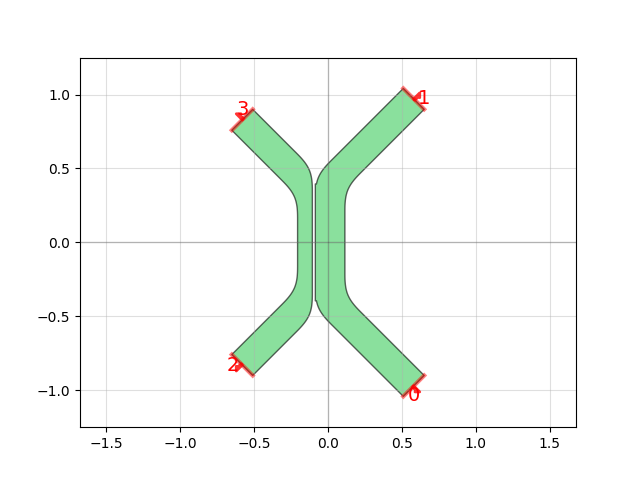
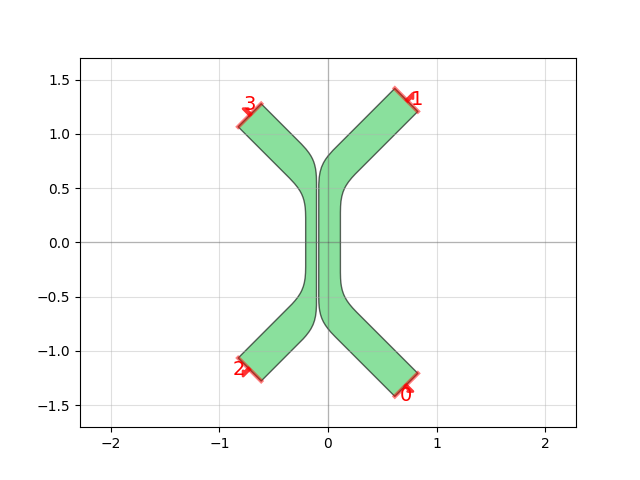
fix solid htron geometry

diff --git a/src/qnngds/devices/htron.py b/src/qnngds/devices/htron.py
@@ -19,7 +19,7 @@ import phidl.geometry as pg
 from qnngds.geometries import angled_taper
 from typing import Tuple, List, Union, Optional
 
-def planar_hTron(wire_width: Union[int, float]= 0.2,
+def planar_hTron(wire_width: Union[int, float]= 0.3,
                  gate_width: Union[int, float] = 0.1,
                  channel_width: Union[int, float] = 0.2,
                  gap: Union[int, float] = 0.02,
@@ -59,7 +59,7 @@ def planar_hTron(wire_width: Union[int, float]= 0.2,
     for direction,width,length in ((1,channel_width, channel_length), (-1,gate_width, gate_length)):
         W = Device('wire')
         constr = W << pg.straight(size=(width, np.max(length - 4*width,0)), layer=layer)
-        constr.move(-constr.center)
+        constr.center = [0,0]
         constr.move([direction*(gap/2+width/2),0])
         taper = angled_taper(wire_width, width, 45, layer=layer)
         if direction < 0:
@@ -79,4 +79,5 @@ def planar_hTron(wire_width: Union[int, float]= 0.2,
 
     HTRON.center = [0,0]
     HTRON.name = f"HTRON.planar(w={wire_width:.2f})"
+    HTRON.simplify(1e-3)
     return HTRON

diff --git a/src/qnngds/design.py b/src/qnngds/design.py
@@ -673,6 +673,29 @@ class Design:
             device_layer=self.layers["device"],
             text=text,
         )
+    
+    def htron_cell(
+            self,
+            wire_width: Union[int, float] = 0.2,
+            gate_width: Union[int, float] = 0.05,
+            channel_width: Union[int, float] = 0.05,
+            gap: Union[int, float] = 0.02,
+            gate_length: Union[int, float] = 0.01,
+            channel_length: Union[int, float] = 0.01,
+            text: Union[None, str] = None
+    ):
+        return cell.planar_htron(
+            die_parameters=self.die_parameters,
+            wire_width=wire_width,
+            gate_width=gate_width,
+            channel_width=channel_width,
+            gap=gap,
+            gate_length=gate_length,
+            channel_length=channel_length,
+            device_layer=self.layers["device"],
+            outline_dev=self.device_outline,
+            text=text
+        )
 
     def ntron_cell(
         self,

diff --git a/docs/user/api.rst b/docs/user/api.rst
@@ -7,7 +7,7 @@ Cells
 
 .. automodule:: qnngds.cells
     :members:
-    :exclude-members: alignment, etch_test, nanowires, nanowires_4pt, ntron, resolution_test, snspd_ntron, snspds, vdp
+    :exclude-members: alignment, etch_test, nanowires, nanowires_4pt, ntron, planar_htron, resolution_test, snspd_ntron, snspds, vdp
     :undoc-members:
     :show-inheritance:
 
@@ -35,6 +35,11 @@ Cells
 
         .. image:: images/cells/ntron.png
             :alt: ntron.png
+
+    .. autofunction:: planar_htron
+
+        .. image:: images/cells/planar_htron.png
+            :alt: planar_htron.png
 
     .. autofunction:: resolution_test
 
@@ -97,9 +102,19 @@ htron
 
 .. automodule:: qnngds.devices.htron
     :members:
-    :exclude-members: 
+    :exclude-members: angled_taper, planar_hTron
     :undoc-members:
     :show-inheritance:
+
+    .. autofunction:: angled_taper
+
+        .. image:: images/devices/htron/angled_taper.png
+            :alt: angled_taper.png
+
+    .. autofunction:: planar_hTron
+
+        .. image:: images/devices/htron/planar_hTron.png
+            :alt: planar_hTron.png
 
 nanowire
 ~~~~~~~~
@@ -183,9 +198,14 @@ Geometries
 
 .. automodule:: qnngds.geometries
     :members:
-    :exclude-members: hyper_taper
+    :exclude-members: angled_taper, hyper_taper
     :undoc-members:
     :show-inheritance:
+
+    .. autofunction:: angled_taper
+
+        .. image:: images/geometries/angled_taper.png
+            :alt: angled_taper.png
 
     .. autofunction:: hyper_taper
 
